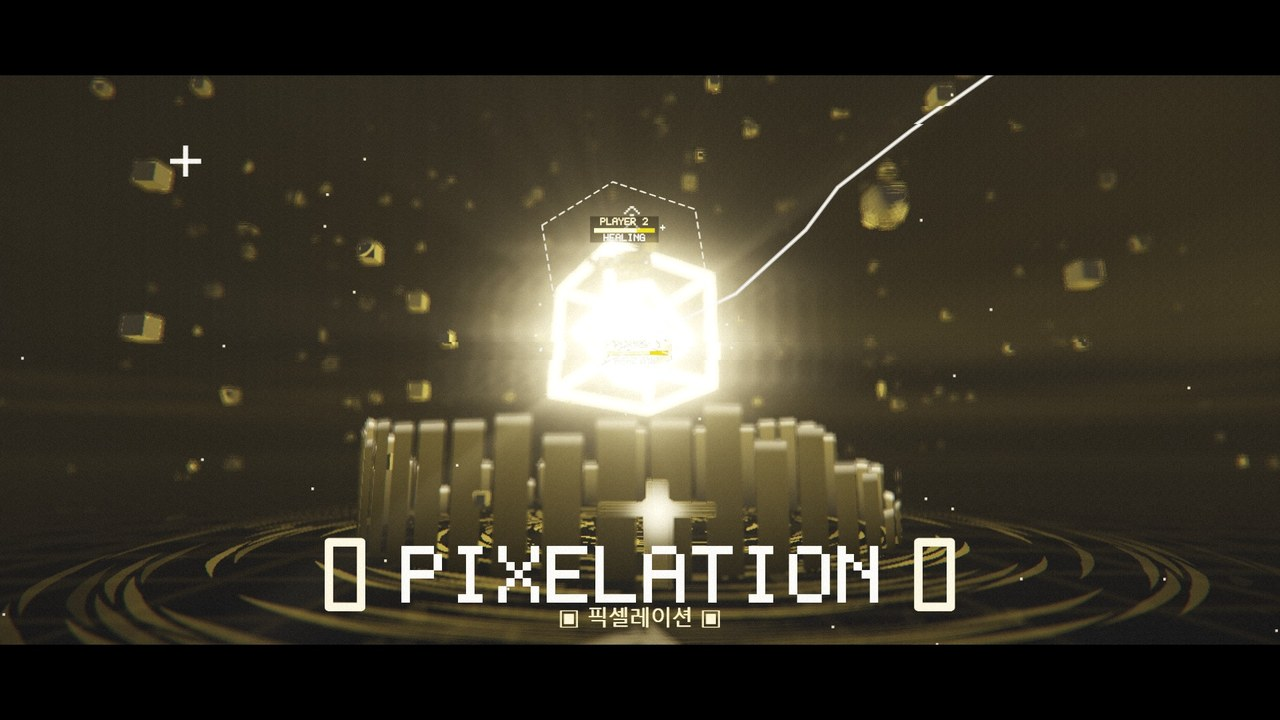
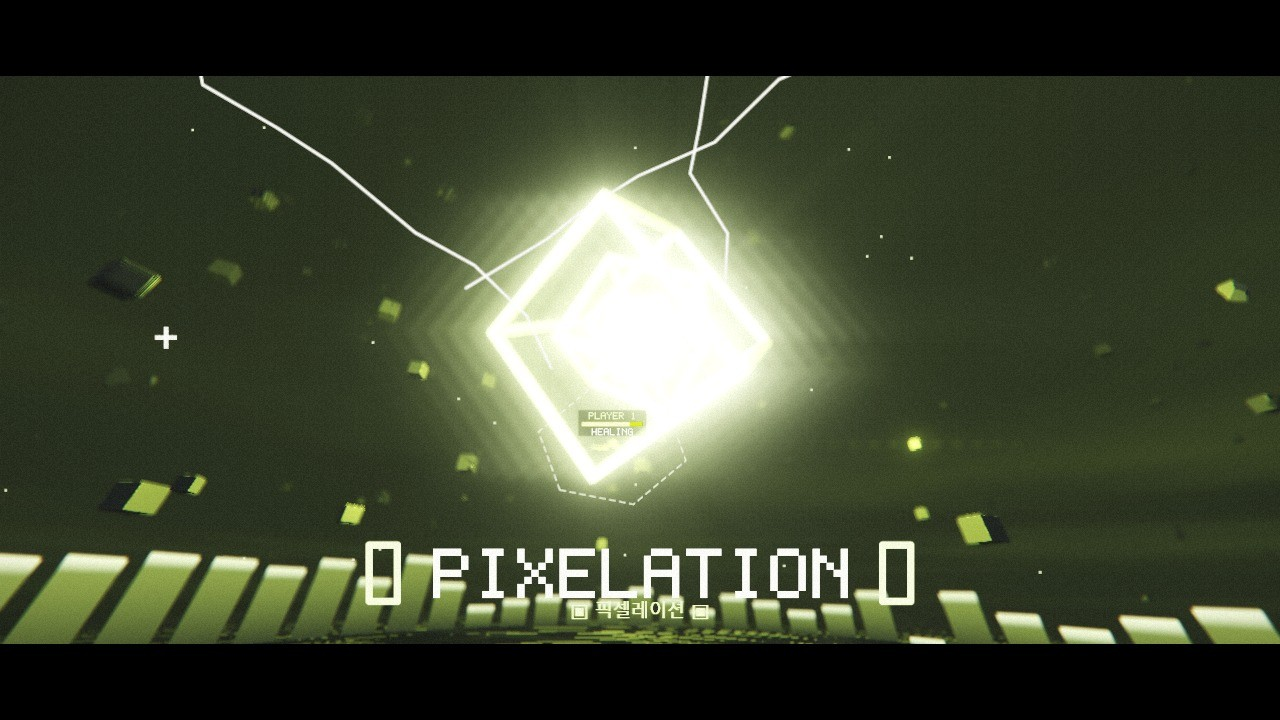
PIXELATION V2: 우주선 기수가 중심을 향함, 사람 조형 삭제, 과충전 폭발 엔딩, 극사실 재질, 4K
- 우주선: 기수가 E.G.O 를 향하게, 엔진 불빛 · 판금 이음새 · 스펙큘러 · 환경 반사
- 사람(플레이어) 조형 삭제 → 드롭 장면은 기둥 고리 안에서 올려다본 아우라
- 재질: 우리 = 거친 금속(결 · 스펙큘러 · 환경 반사), 큐브 = 발광 관, 바닥 = 물웅덩이 거울 반사 + 거친 표면 흐린 반사 + 잔물결
- 엔딩: 27.11 과충전(핵 백열 · 파편이 빨려듦 · 흔들림 · 번쩍임) → 28.34 마디 첫 박에 폭발(발광 조각 24개 · 바닥 충격파 · 평원을 밝히는 섬광) → 화면이 픽셀로 부서져 흩어짐.
  음원은 테이프 스톱 대신 그 박의 원곡 타격만 남기고 사라짐(합성 효과음 없음)
- 렌더 배율 1 · DPR 2, 공용 키트에 컷씬별 녹화 해상도(recW/recH) — 이 컷씬은 3840x2160 4K 저장(H.264 level 5.1, 45Mbps)

diff --git a/public/pixelation2_gl.html b/public/pixelation2_gl.html
@@ -27,9 +27,10 @@
      9.88   S4 비트: 두 우주선이 카메라 위를 스쳐 지나 우리로 (플라이바이) · E.G.O 가 박자마다 터지고 우주선은 -5
      14.8   S5 우주선 뒤 추적 숏 — 거대한 기둥 비주얼라이저가 평원에서 솟는다
      19.73  S6 봉인 균열: 우리가 조각조각 떨어져 나가고 번개가 내리꽂힌다, HP 폭락 → LOW HP → 방어막
-     24.65  S7 드롭: 전경의 작은 사람(팔을 벌리고 떠 있다, 가슴의 빛) 뒤로 완성된 아우라 — 카메라가 천천히 떠오른다 · 25.88 타이틀
-     28.34  테이프 스톱 → 29.5 끝
-   패스: ① 레이마칭(우리 · 큐브 · 핵 · 우주선 · 사람 · 파편, 깊이 → 알파) + 바닥(반사 레이마칭 1회 · 핵을 향한 그림자 광선 · 픽셀 소용돌이) + 구름 하늘 + 기둥 비주얼라이저 ② 2D 층(번개 · 폭발 · HUD · 타이틀) ③ 블룸 · 갓레이 ④ 최종(DoF · 플레어 · 레터박스)
+     24.65  S7 드롭: 평원에서 올려다본 완성된 아우라 — 우리가 사라지고 큐브가 극도로 빨리 돈다 · 25.88 타이틀
+     27.11  과충전: 핵이 백열하며 부풀고, 파편이 빨려들고, 화면이 떨린다
+     28.34  (마디 첫 박) 터짐: 발광 조각 · 바닥 충격파 · 평원 전체를 밝히는 섬광 → 화면이 픽셀로 부서져 흩어짐 → 29.5 끝
+   패스: ① 레이마칭(우리 · 큐브 · 핵 · 우주선 · 파편 · 과충전 조각, 깊이 → 알파) + 바닥(반사 레이마칭 1회 · 핵을 향한 그림자 광선 · 픽셀 소용돌이) + 구름 하늘 + 기둥 비주얼라이저 ② 2D 층(번개 · 폭발 · HUD · 타이틀) ③ 블룸 · 갓레이 ④ 최종(DoF · 플레어 · 레터박스)
    무지개: 모든 것이 같은 순간 같은 색(hueAt) — 빛으로. 전부 시간의 함수(상태 없음). 시계·HUD·시작/종료 화면은 cs_ui.js
    ═══════════════════════════════════════════════════════════════ */
 const TAU = Math.PI * 2, PI = Math.PI;
@@ -43,7 +44,7 @@ const h1 = (x) => { const v = Math.sin(x * 12.9898 + 78.233) * 43758.5453; retur
 function rng(seed) { return () => { seed |= 0; seed = seed + 0x6D2B79F5 | 0; let x = Math.imul(seed ^ seed >>> 15, 1 | seed); x = x + Math.imul(x ^ x >>> 7, 61 | x) ^ x; return ((x ^ x >>> 14) >>> 0) / 4294967296; }; }
 
 const BEAT = .30769, O = .034, BAR = BEAT * 4, bar = (n) => O + n * BAR;
-const T = { S2: bar(2), S3: bar(5), KICK: bar(8), S5: bar(12), BUILD: bar(16), LOWHP: bar(17), SHIELD: bar(18), DROP: bar(20), TITLE: bar(21), HEAL: bar(21) + BEAT * 2, FULL: bar(22) + BEAT * 2, STOP: bar(23), END: 29.5 };
+const T = { S2: bar(2), S3: bar(5), KICK: bar(8), S5: bar(12), BUILD: bar(16), LOWHP: bar(17), SHIELD: bar(18), DROP: bar(20), TITLE: bar(21), HEAL: bar(21), FULL: bar(22) - BEAT * .5, OVER: bar(22), STOP: bar(23), END: 29.5 };   // STOP = 터지는 순간
 const EXPL = [bar(10), bar(12), bar(14), bar(15) + BEAT * 2, bar(16) + BEAT * 2, bar(17), bar(17) + BEAT * 2, bar(18), bar(18) + BEAT * 2, bar(19), bar(19) + BEAT * 2, bar(20), bar(20) + BEAT * 2, bar(21) + BEAT * 2, bar(22), bar(22) + BEAT * 2];
 const D = window.PX2_DATA || { fps: 60, kick: [], hat: [], lvl: [], spec: "" };
 const dat = (arr, t) => { const i = Math.floor(t * D.fps); return i < 0 || !arr.length ? 0 : arr[Math.min(arr.length - 1, i)]; };
@@ -58,12 +59,12 @@ const C0 = [0, 9.5, 0];                                                         
 
 const $ = (id) => document.getElementById(id);
 const glc = $("glc"), bgm = $("bgm"), tcv = document.createElement("canvas"), tg = tcv.getContext("2d");
-let Wd = 0, Hd = 0, U = 0, DPR = 1, DPR_CAP = 1.5, SCALE = .7, slow = 0, time = 0, X = null, P = {}, RT = {}, txtTex = null;
+let Wd = 0, Hd = 0, U = 0, DPR = 1, DPR_CAP = 2, SCALE = 1, slow = 0, time = 0, X = null, P = {}, RT = {}, txtTex = null;
 
 /* ═════════════════ 셰이더 ═════════════════ */
 const FS_SCENE = `#version 300 es
 precision highp float; in vec2 vUv; out vec4 o;
-uniform vec2 uRes; uniform float uT, uFocal, uCore, uCage, uBreak, uShipK, uPlayer, uBars, uVortex, uDebris, uBob, uFlare, uGrey, uPulse, uSky; uniform vec3 uCamPos, uCol, uColW, uPlayerP; uniform mat3 uCam, uCubeR[3]; uniform vec4 uShip[2]; uniform float uSpec[24]; uniform int uZero;
+uniform vec2 uRes; uniform float uT, uFocal, uCore, uCage, uBreak, uShipK, uBars, uVortex, uDebris, uBob, uFlare, uGrey, uPulse, uSky, uOver, uBurst, uPull, uCubesK, uShock, uBoom; uniform vec3 uCamPos, uCol, uColW; uniform vec4 uFrag[24]; uniform mat3 uCam, uCubeR[3]; uniform vec4 uShip[2]; uniform float uSpec[24]; uniform int uZero;
 ${CSGL.NOISE}
 const vec3 C0 = vec3(0., 9.5, 0.);
 float sdBox(vec3 p, vec3 b){ vec3 d = abs(p) - b; return length(max(d, 0.)) + min(max(d.x, max(d.y, d.z)), 0.); }
@@ -77,13 +78,14 @@ vec2 map(vec3 p){
   if (dc >= 9.5) r = vec2(dc - 9.4, -1.); else {
     if (uCage > .001){ float f = sdFrame(c, vec3(5.2), .17); f = min(f, sdFrame(c, vec3(5.2, .12, 5.2), .1)); f = min(f, sdFrame(c, vec3(.12, 5.2, 5.2), .1));                                                   // 봉인 우리: 큰 틀 + 가운데를 가로지르는 띠
       if (uBreak > 0.){ vec3 id = floor(c * .7 + 7.); float h = hash(id.xy + id.z * 3.7); if (h < uBreak) f = 1e9; } r = opU(r, vec2(f, 1.)); }
-    for (int i = uZero; i < 3; i++){ float s = i == 0 ? 3.1 : i == 1 ? 1.9 : 1.05; vec3 q = c * uCubeR[i]; r = opU(r, vec2(sdFrame(q, vec3(s), .07 + .02 * float(2 - i)), 2.)); }                                           // 큐브 윤곽 3겹
-    r = opU(r, vec2(dc - .5 * (1. + .5 * uPulse) * uCore, 3.)); }
-  if (uShipK > .001) for (int i = uZero; i < 2; i++){ vec3 q = rotY3(uShip[i].w) * (p - uShip[i].xyz); r = opU(r, length(q) < 2. ? vec2(ship(q) * .9, 4.) : vec2(length(q) - 1.9, -1.)); }
-  if (uPlayer > .001){ vec3 q = p - uPlayerP; if (length(q) >= 1.7) r = opU(r, vec2(length(q) - 1.65, -1.)); else { float d = sdBox(q - vec3(0., .62, 0.), vec3(.13, .14, .13)) - .02; d = min(d, sdBox(q - vec3(0., .12, 0.), vec3(.2, .32, .11)) - .02);   // 사람: 팔을 벌리고 떠 있다
-      d = min(d, sdBox(q - vec3(0., .34, 0.), vec3(.92, .06, .06)) - .02); d = min(d, sdBox(q - vec3(-.1, -.52, 0.), vec3(.08, .3, .09)) - .02); d = min(d, sdBox(q - vec3(.1, -.52, 0.), vec3(.08, .3, .09)) - .02); r = opU(r, vec2(d, 5.)); } }
-  if (uDebris > .001){ float C = 5.5; vec3 id = floor(p / C), lp = p - (id + .5) * C; float h = hash(id.xy + id.z * 5.3); if (h > .7 && p.y > 1.5 && length(p.xz) > 7. && length(p - uCamPos) > 3.){ float sz = .08 + .3 * hash(id.xz + 1.); vec3 o2 = (vec3(hash(id.xy + 2.), hash(id.yz + 3.), hash(id.xz + 4.)) - .5) * 3.5;   // 떠다니는 복셀 파편
-      vec3 q = lp - o2 - vec3(0., sin(uT * .5 + h * 9.) * .3, 0.); r = opU(r, vec2(sdBox(q, vec3(sz)), 6.)); } }
+    if (uCubesK > .01) for (int i = uZero; i < 3; i++){ float s = (i == 0 ? 3.1 : i == 1 ? 1.9 : 1.05) * (1. - .12 * uOver); vec3 q = c * uCubeR[i]; r = opU(r, vec2(sdFrame(q, vec3(s), .07 + .02 * float(2 - i)), 2.)); }                                           // 큐브 윤곽 3겹
+    if (uCubesK > .01) r = opU(r, vec2(dc - .5 * (1. + .5 * uPulse + 2.4 * uOver * uOver) * uCore, 3.)); }
+  if (uShipK > .001) for (int i = uZero; i < 2; i++){ vec3 q = rotY3(uShip[i].w) * (p - uShip[i].xyz); r = opU(r, length(q) < 2. ? vec2(ship(q) * .9, 4.) : vec2(length(q) - 1.9, -1.)); if (length(q) < 2.) r = opU(r, vec2(sdBox(q - vec3(-1.08, 0., 0.), vec3(.05, .07, .17)), 7.)); }   // 엔진 불빛
+  if (uDebris > .001){ vec3 pd = C0 + (p - C0) * (1. + 2.5 * uPull); float C = 5.5, sc = 1. + 2.5 * uPull; vec3 id = floor(pd / C), lp = pd - (id + .5) * C; float h = hash(id.xy + id.z * 5.3);        // 떠다니는 복셀 파편 (과충전 때 핵으로 빨려들고, 터지면 밀려난다)
+    if (h > .7 && pd.y > 1.5 && length(pd.xz) > 7. && length(p - uCamPos) > 3.){ float sz = .08 + .3 * hash(id.xz + 1.); vec3 o2 = (vec3(hash(id.xy + 2.), hash(id.yz + 3.), hash(id.xz + 4.)) - .5) * 3.5;
+      vec3 q = lp - o2 - vec3(0., sin(uT * .5 + h * 9.) * .3, 0.); q = rotY3(h * 9. + uT * (.3 + h)) * q; r = opU(r, vec2(sdBox(q, vec3(sz)) / sc, 6.)); } }
+  if (uBurst > 0.) for (int i = uZero; i < 24; i++){ vec4 f = uFrag[i]; if (f.w <= 0.) continue; vec3 q = p - f.xyz; float dq = length(q); if (dq > 3.){ r = opU(r, vec2(dq - 2.5, -1.)); continue; }     // 과충전 조각
+    float hh = float(i) * 1.7; q = rotY3(hh + uBurst * (3. + float(i) * .3)) * q; q.yz = mat2(cos(hh * 2.), -sin(hh * 2.), sin(hh * 2.), cos(hh * 2.)) * q.yz; r = opU(r, vec2(sdBox(q, vec3(f.w)), 8.)); }
   return r;
 }
 vec3 normalAt(vec3 p){ vec3 n = vec3(0.); for (int i = uZero; i < 4; i++){ vec3 e = .5773 * (2. * vec3(float(((i + 3) >> 1) & 1), float((i >> 1) & 1), float(i & 1)) - 1.); n += e * map(p + .003 * e).x; } return normalize(n); }
@@ -91,25 +93,32 @@ float shadowTo(vec3 p, vec3 L){ vec3 d = L - p; float len = length(d); d /= len;
 vec3 sky(vec3 rd){ vec3 L = C0 + vec3(0., uBob, 0.); float y = max(rd.y, .02); vec2 q = rd.xz / y; float n = fbm(q * .06 + vec2(uT * .01, 0.)) * .6 + fbm(q * .18 - vec2(0., uT * .02)) * .4;                    // 폭풍 구름: 핵의 색으로 밑면이 물든다
   float cloud = smoothstep(.35, .75, n), lit = exp(-length(q) * .05) ; vec3 c = mix(vec3(.004, .005, .01), vec3(.012, .014, .022), cloud) + uCol * cloud * lit * (.4 + .6 * uFlare) * uCore + uColW * pow(max(dot(rd, normalize(L - uCamPos)), 0.), 60.) * .06 * uCore;
   return mix(c, vec3(.003, .004, .008), 1. - smoothstep(0., .12, rd.y)) * uSky + (1. - uSky) * vec3(.002, .003, .006); }
-vec3 lightAt(vec3 p){ vec3 L = C0 + vec3(0., uBob, 0.); float d = length(L - p); return uCol * uCore * (26. + 60. * uFlare) / (1. + d * d * .12); }
+vec3 lightAt(vec3 p){ vec3 L = C0 + vec3(0., uBob, 0.); float d = length(L - p); return (uCol * uCore * uCubesK * (26. + 60. * uFlare + 110. * uOver * uOver) + mix(vec3(1.), uColW, .4) * uBoom * 28.) / (1. + d * d * .12); }
 vec3 shade(vec3 p, vec3 n, vec3 rd, float id){
-  vec3 L = C0 + vec3(0., uBob, 0.), l = normalize(L - p); float ndl = max(dot(n, l), 0.), fres = pow(1. - max(dot(n, -rd), 0.), 3.), top = .5 + .5 * n.y; vec3 li = lightAt(p), amb = vec3(.02, .025, .04) * (.25 + .75 * top);
-  if (id < 1.5){ float sh = shadowTo(p + n * .05, L); return amb * .6 + li * ndl * .35 * sh + uCol * (.03 + .35 * fres) * .5; }                                            // 우리: 어두운 금속
-  if (id < 2.5) return uColW * (.9 + .8 * uPulse) + uCol * .5;                                                                                                           // 큐브 윤곽: 발광
-  if (id < 3.5) return uColW * (2.4 + 2. * uPulse);                                                                                                                      // 핵
-  if (id < 4.5){ vec3 c = vec3(.06, .065, .08) * (.25 + .75 * top) + li * ndl * .12 + uCol * (.05 + .5 * fres); float win = step(.85, hash(floor(p.xz * 6.) + floor(p.y * 6.))); return c + uColW * win * .25; }   // 우주선: 금속 동체, 작은 창의 불빛
-  if (id < 5.5){ vec3 q = p - uPlayerP - vec3(0., .34, 0.); float g = exp(-dot(q, q) * 9.); return amb * .5 + li * ndl * .08 + uCol * (.08 + .5 * fres) + uColW * g * 1.3; }   // 사람: 실루엣, 가슴에서 빛
-  return amb + li * ndl * .25 + uCol * (.03 + .5 * fres);                                                                                                                 // 파편
+  vec3 L = C0 + vec3(0., uBob, 0.), l = normalize(L - p), hv = normalize(l - rd); float ndl = max(dot(n, l), 0.), ndv = max(dot(n, -rd), 0.), fres = .04 + .96 * pow(1. - ndv, 5.), top = .5 + .5 * n.y; vec3 li = lightAt(p), amb = vec3(.012, .014, .022) * (.3 + .7 * top);
+  if (id < 1.5){ float sh = shadowTo(p + n * .05, L), rough = .3 + .35 * fbm(p.xy * 3. + p.z * 2.), spec = pow(max(dot(n, hv), 0.), mix(220., 24., rough)) * (1.2 - rough);                 // 우리: 거친 금속 — 결 · 스펙큘러 · 환경 반사
+    return amb * .5 + li * (ndl * .1 + spec * 1.4) * sh + sky(reflect(rd, n)) * fres * .9; }
+  if (id < 2.5) return mix(uCol * 1.1, uColW * 2., pow(ndv, 1.5)) * (.75 + .6 * uPulse + 2. * uOver);                                                                  // 큐브: 발광 관 — 가운데는 희고 가장자리는 색
+  if (id < 3.5) return mix(uColW, vec3(1.), uOver) * (2.6 + 2. * uPulse + 6. * uOver * uOver);                                                                         // 핵: 과충전 때 백열
+  if (id < 4.5){ float panel = step(.93, max(fract(p.x * 1.6 + p.z * .3), fract(p.y * 5.))), spec = pow(max(dot(n, hv), 0.), 110.);                                     // 우주선: 판금 · 이음새 · 스펙큘러 · 환경 반사
+    return vec3(.045, .05, .06) * (.3 + .7 * top) * (1. - .45 * panel) + li * (ndl * .12 + spec * 1.3) + sky(reflect(rd, n)) * fres * .7; }
+  if (id < 6.5) return amb + li * (ndl * .18 + pow(max(dot(n, hv), 0.), 70.) * .9) + sky(reflect(rd, n)) * fres * .4;                                                  // 파편
+  if (id < 7.5) return uColW * 4. + uCol * 2.;                                                                                                                          // 엔진
+  float k = clamp(uBurst * 1.3, 0., 1.); return mix(vec3(5.), uCol * 1.8 + uColW * .6, k) * (.5 + .5 * ndv) * (1. - .75 * k);                                           // 과충전 조각: 백열 → 색으로 식음
 }
 vec3 floorCol(vec3 p, vec3 rd, float t){
   vec2 q = p.xz; float r = length(q), aa = t * 2.4 / uRes.y / max(-rd.y, .06), fade = exp(-r * .025); vec3 L = C0 + vec3(0., uBob, 0.);
-  vec2 g = abs(fract(q * .25 - .5) - .5) / .25; float grid = smoothstep(aa * 1.4, 0., min(g.x, g.y)); vec3 col = vec3(.004, .005, .009) + uCol * grid * .02 * fade;
-  float an = atan(q.y, q.x), sw = an + r * .5 - uT * (1.2 + 3. * uVortex), cell = floor(r * 1.3 - uT * (2. + 5. * uVortex)), secn = floor(sw / 6.2832 * 24.), h = hash(vec2(cell, secn));            // 픽셀 소용돌이: 순수 픽셀 칸이 바깥으로 번진다
-  float on = step(1. - .38 * uVortex - .05, h) * step(.35, fract(sw / 6.2832 * 24.)) * step(.2, fract(r * 1.3 - uT * (2. + 5. * uVortex))); col += uCol * on * (.25 + .6 * hash(vec2(cell, secn + 5.))) * fade * smoothstep(26., 4., r) * uVortex * .8;
-  float sh = shadowTo(p + vec3(0., .05, 0.), L); vec3 li = lightAt(p); float ndl = max(dot(vec3(0., 1., 0.), normalize(L - p)), 0.); col += li * ndl * .18 * sh * (.4 + .6 * fbm(q * .3));                    // 핵의 빛 + 우리의 그림자
-  vec3 rr = reflect(rd, vec3(0., 1., 0.)); float tr = .1; vec2 m; float rid = -1.; for (int i = uZero; i < 40; i++){ m = map(p + rr * tr); if (m.x < .01 * tr){ rid = m.y; break; } tr += m.x * .95; if (tr > 40.) break; }                        // 젖은 바닥: 발광체의 반사
-  float fr = pow(1. - max(-rd.y, 0.), 3.) * .85 + .05; vec3 refl = vec3(0.); if (rid > 1.5 && rid < 3.5) refl = (rid < 2.5 ? uColW * .8 + uCol * .4 : uColW * 1.2) * exp(-tr * .03) * (.7 + .3 * fbm(q * .8 + uT * .1)); else if (rid > .5) refl = (rid < 1.5 ? uCol * .06 : uCol * .12) * exp(-tr * .05);
-  col += refl * fr * .9;
+  float pud = smoothstep(.44, .58, fbm(q * .11 + 3.)), grain = fbm(q * 2.3) * .6 + fbm(q * 9.) * .4;                                                                     // 물웅덩이 · 거친 표면
+  vec2 g = abs(fract(q * .25 - .5) - .5) / .25; float grid = smoothstep(aa * 1.4, 0., min(g.x, g.y)) * (1. - .8 * pud);
+  vec3 col = vec3(.006, .007, .01) * (.5 + .9 * grain) * (1. - .55 * pud) + uCol * grid * .02 * fade;
+  float an = atan(q.y, q.x), sw = an + r * .5 - uT * (1.2 + 3. * uVortex), cell = floor(r * 1.3 - uT * (2. + 5. * uVortex)), secn = floor(sw / 6.2832 * 24.), h = hash(vec2(cell, secn));            // 픽셀 소용돌이
+  float on = step(1. - .38 * uVortex - .05, h) * step(.35, fract(sw / 6.2832 * 24.)) * step(.2, fract(r * 1.3 - uT * (2. + 5. * uVortex))); col += uCol * on * (.25 + .6 * hash(vec2(cell, secn + 5.))) * fade * smoothstep(26., 4., r) * uVortex * .8 * (1. - .6 * pud);
+  float sh = shadowTo(p + vec3(0., .05, 0.), L); vec3 li = lightAt(p); float ndl = max(dot(vec3(0., 1., 0.), normalize(L - p)), 0.); col += li * ndl * (.08 + .14 * grain) * (1. - .5 * pud) * sh;   // 핵의 빛 + 우리의 그림자
+  vec2 wv = vec2(fbm(q * 1.7 + uT * .25), fbm(q * 1.7 - uT * .25 + 5.)) - .5; vec3 nrm = normalize(vec3(wv.x * mix(.14, .012, pud), 1., wv.y * mix(.14, .012, pud))), rr = reflect(rd, nrm);          // 젖은 바닥: 웅덩이는 거울, 나머지는 흐린 반사
+  float tr = .1, rid = -1.; for (int i = uZero; i < 44; i++){ vec2 m = map(p + rr * tr); if (m.x < .01 * tr){ rid = m.y; break; } tr += m.x * .95; if (tr > 50.) break; }
+  vec3 refl = rid < 0. ? sky(rr) * .8 : rid < 1.5 ? uCol * .05 : rid < 2.5 ? (uColW * .8 + uCol * .4) * (1. + 2. * uOver) : rid < 3.5 ? uColW * (2. + 8. * uOver) : rid < 4.5 ? uCol * .07 : rid < 6.5 ? uCol * .05 : rid < 7.5 ? uColW * 3. : vec3(5.) * (1. - clamp(uBurst, 0., 1.));
+  float fr = .03 + .97 * pow(1. - max(-rd.y, 0.), 5.); col += refl * exp(-tr * .02) * fr * mix(.3, 1., pud);
+  if (uShock > 0. && uShock < 1.){ float rr0 = uShock * 46., w = .8 + uShock * 4.; col += mix(vec3(1.), uColW, .5) * exp(-pow((r - rr0) / w, 2.)) * 4. * (1. - uShock) * (.6 + .4 * grain); }        // 바닥을 휩쓰는 충격파
   return col;
 }
 void main(){
@@ -123,13 +132,13 @@ void main(){
       float slot = atan(p.z, p.x) / 6.2832 * 48. + uT * .3, idx = floor(slot), fa = fract(slot) - .5, m = abs(mod(idx + 24., 48.) - 24.); int bi = int(min(m, 23.)); float hgt = (.3 + uSpec[bi] * 4.2 * (1. + .35 * uPulse)) * uBars, aa = tb * 2.4 / uRes.y;
       float cv = clamp((.36 - abs(fa)) * (6.2832 * R / 48.) / aa + .5, 0., 1.) * clamp((hgt - p.y) / aa + .5, 0., 1.), dk = i == 0 ? 1. : .4; vec3 bc = vec3(.012, .014, .02) + uCol * (.05 + .25 * p.y / hgt) + uColW * (smoothstep(hgt - .35, hgt, p.y) * .9 + .06 * smoothstep(.0, 1., p.y / hgt) * uPulse);
       col = mix(col, mix(bc, vec3(.004, .005, .01), 1. - exp(-tb * .018)) * dk, cv); if (cv > .5) depth = min(depth, tb); } } }
-  { vec3 L = C0 + vec3(0., uBob, 0.), v = L - ro; float tc = max(dot(v, rd), 0.), d = length(v - rd * tc); col += uCol * uCore * (1. + 3. * uFlare) * (.5 / (d * d + .6)) * step(tc, depth + 4.) * .35; }                            // 핵의 빛이 안개에 번진다
+  { vec3 L = C0 + vec3(0., uBob, 0.), v = L - ro; float tc = max(dot(v, rd), 0.), d = length(v - rd * tc); col += (uCol * uCore * uCubesK * (1. + 3. * uFlare + 9. * uOver * uOver) + mix(vec3(1.), uColW, .4) * uBoom * 1.2) * (.5 / (d * d + .6)) * step(tc, depth + 4.) * .35; }                            // 핵의 빛이 안개에 번진다
   col = mix(col, vec3(dot(col, vec3(.33))), uGrey);
   o = vec4(max(col, 0.), depth);
 }`;
 const FS_FINAL = `#version 300 es
 precision highp float; in vec2 vUv; out vec4 o;
-uniform sampler2D uScene, uBloom, uTxt, uRays; uniform vec2 uRes, uShake, uLightS; uniform float uT, uZoom, uCA, uBloomK, uFlash, uFade, uStretch, uInvert, uBlock, uGlitch, uFocus, uAper, uRayK; uniform vec3 uColW;
+uniform sampler2D uScene, uBloom, uTxt, uRays; uniform vec2 uRes, uShake, uLightS; uniform float uT, uZoom, uCA, uBloomK, uFlash, uFade, uStretch, uInvert, uBlock, uGlitch, uFocus, uAper, uRayK, uShatter; uniform vec3 uColW;
 ${CSGL.NOISE}
 vec3 scene(vec2 uv){ vec4 c0 = texture(uScene, uv); float coc = clamp(abs(c0.a - uFocus) / max(c0.a, .3) * uAper, 0., 1.) * .012; if (coc < .0006) return c0.rgb;                                   // 피사계 심도
   vec3 acc = c0.rgb; float n = 1.; for (int i = 0; i < 14; i++){ float fi = float(i) + .5, a = fi * 2.39996, r = sqrt(fi / 14.) * coc; vec2 d = vec2(cos(a), sin(a)) * r * vec2(uRes.y / uRes.x, 1.); vec4 sx = texture(uScene, uv + d); float w = 1. + 2. * max(max(sx.r, sx.g), sx.b); acc += sx.rgb * w; n += w; } return acc / n; }
@@ -138,6 +147,8 @@ void main(){
   if (uBlock > 1.5) uv = (floor(uv * uRes / uBlock) + .5) * uBlock / uRes;
   float tick = floor(uT * 24.), row = floor(uv.y * 40.), gr = hash(vec2(row, tick)); if (gr < uGlitch * .5) uv.x += (hash(vec2(row, tick + 3.)) - .5) * .14 * uGlitch;
   if (uStretch > 0.){ float rw = floor(uv.y * 90.), tk = floor(uT * 30.); uv.y = .5 + (uv.y - .5) * (1. - .6 * uStretch) + sin(uv.y * 40. + uT * 9.) * .02 * uStretch; uv.x += (hash(vec2(rw, tk)) - .5) * .12 * uStretch * step(.6, hash(vec2(rw, tk * .3))); }
+  float gone = 0., hot = 0.; if (uShatter > 0.){ vec2 A = vec2(uRes.x / uRes.y, 1.); float bs = mix(.01, .055, uShatter); vec2 cell = floor((uv - .5) * A / bs); float hh = hash(cell + 3.1); vec2 cc = (cell + .5) * bs / A + .5, d2 = cc - .5;   // 과충전된 픽셀이 터져 흩어진다
+    float k = uShatter * (1. + 2.5 * hh); uv = .5 + d2 / (1. + k * 1.8) + (uv - cc) * .1; gone = step(1. - uShatter * 1.1, hh * .85 + .15 * uShatter); hot = hh * (1. - uShatter); }
   if (uv.x < 0. || uv.x > 1. || uv.y < 0. || uv.y > 1.){ o = vec4(0., 0., 0., 1.); return; }
   vec2 dir = uv - .5; float ca = uCA * (.3 + length(dir) * 1.8);
   vec3 col = vec3(scene(uv + dir * ca).r, scene(uv).g, scene(uv - dir * ca).b); vec3 bl = texture(uBloom, uv).rgb, st = vec3(0.); for (int i = -7; i <= 7; i++){ float fi = float(i); st += texture(uBloom, uv + vec2(fi * .016, 0.)).rgb * exp(-fi * fi * .07); }
@@ -148,6 +159,7 @@ void main(){
   col = mix(col, vec3(1.) - min(col, vec3(1.)), uInvert); col += vec3(1.) * uFlash;
   col = (col * (2.51 * col + .03)) / (col * (2.43 * col + .59) + .14); col = pow(clamp(col, 0., 1.), vec3(1. / 2.2)); col = mix(col, vec3(dot(col, vec3(.3, .55, .15))), .12); col = col * 1.08 + .012;             // 필름 느낌: 살짝 탈색, 들린 검정
   col += (hash(gl_FragCoord.xy + fract(uT) * 91.7) - .5) * .045; float v = length((vUv - .5) * vec2(1., .8)); col *= 1. - smoothstep(.45, 1.1, v) * .6;
+  col = col * (1. + .9 * hot) * (1. - gone) * (1. - .45 * uShatter);
   col *= step(.105, vUv.y) * step(vUv.y, .895);                                                                                                                             // 시네마스코프 레터박스
   o = vec4(max(col, 0.) * (1. - uFade), 1.);
 }`;
@@ -159,9 +171,9 @@ function lazyProgram(vs, fs) {
 }
 function initGL() { if (X) return; const x = CSGL.create(glc); x.gl.getExtension("KHR_parallel_shader_compile"); X = x; P.scene = lazyProgram(CSGL.VS_FULL, FS_SCENE); P.final = lazyProgram(CSGL.VS_FULL, FS_FINAL); txtTex = X.canvasTexture(); }
 function resize() {
-  DPR = Math.min(DPR_CAP, window.devicePixelRatio || 1); Wd = glc.clientWidth || 1280; Hd = glc.clientHeight || 720; U = Math.min(Wd, Hd) / 10;
+  const recording = $("cs").classList.contains("rec"); DPR = recording ? 1 : Math.min(DPR_CAP, window.devicePixelRatio || 1); Wd = glc.clientWidth || 1280; Hd = glc.clientHeight || 720; U = Math.min(Wd, Hd) / 10;
   const pw = Math.max(2, Math.round(Wd * DPR)), ph = Math.max(2, Math.round(Hd * DPR)); glc.width = tcv.width = pw; glc.height = tcv.height = ph;
-  initGL(); const sw = Math.max(2, Math.round(pw * SCALE)), sh = Math.max(2, Math.round(ph * SCALE)); X.resize(sw, sh); X.free(RT.scene); RT.scene = X.target(sw, sh);
+  initGL(); const sc = recording ? .72 : SCALE,                                   /* 4K 녹화: 레이마칭은 0.72배(2765x1555)로, 블룸·DoF·글자·최종 합성은 3840x2160 그대로 */ sw = Math.max(2, Math.round(pw * sc)), sh = Math.max(2, Math.round(ph * sc)); X.resize(sw, sh); X.free(RT.scene); RT.scene = X.target(sw, sh);
 }
 setTimeout(() => { try { initGL(); } catch (e) { /* 재생할 때 다시 시도하며 안내 */ } }, 200);
 
@@ -173,7 +185,7 @@ function ptext(s, x, y, sc, color, align) { s = String(s).toUpperCase(); const w
   for (const ch of s) { const g = FONT[ch]; if (g) for (let r = 0; r < 7; r++) for (let c = 0; c < 5; c++) if (g[r] >> (4 - c) & 1) tg.fillRect(x + c * sc, y + r * sc, sc, sc); x += 6 * sc; } return w; }
 function proj(S, p) { const v = [p[0] - S.cam.pos[0], p[1] - S.cam.pos[1], p[2] - S.cam.pos[2]], z = dot(v, S.cam.f); if (z < .1) return null; return [Wd / 2 + dot(v, S.cam.r) / z * S.focal * Hd / 2, Hd / 2 - dot(v, S.cam.u) / z * S.focal * Hd / 2, z]; }
 function drawOverlay(t, S) {
-  tg.setTransform(1, 0, 0, 1, 0, 0); tg.clearRect(0, 0, tcv.width, tcv.height); tg.setTransform(DPR, 0, 0, DPR, 0, 0); const tt = Math.min(t, T.STOP), stopped = t >= T.STOP, hue = hueAt(t), L = (l, a = 1) => (stopped ? `hsla(0,0%,${l * .7}%,${a})` : hsl(hue, l, a)), kick = dat(D.kick, tt);
+  tg.setTransform(1, 0, 0, 1, 0, 0); tg.clearRect(0, 0, tcv.width, tcv.height); tg.setTransform(DPR, 0, 0, DPR, 0, 0); const tt = Math.min(t, T.STOP), stopped = t >= T.STOP, hue = hueAt(t), L = (l, a = 1) => hsl(hue, l, a), kick = dat(D.kick, tt);
   const line = (pts, w, col) => { tg.strokeStyle = col; tg.lineWidth = w * U; tg.beginPath(); pts.forEach(([x, y], i) => (i ? tg.lineTo(x, y) : tg.moveTo(x, y))); tg.stroke(); };
   const core = proj(S, [0, C0[1] + S.bob, 0]) || [Wd / 2, Hd / 2, 20], ck = clamp(14 / core[2]);
   tg.lineCap = "round"; tg.lineJoin = "round"; tg.globalCompositeOperation = "lighter";
@@ -200,7 +212,7 @@ function drawOverlay(t, S) {
   if (t >= T.TITLE) { const s = t - T.TITLE, pop = eBack(seg(s, 0, .22)), sc = Math.max(1, Math.round((U * .09) * pop + U * .025 * kick)), y = Hd * .795; tg.globalCompositeOperation = "lighter";                                                                                        // 타이틀: 박마다 맥동
     ptext("PIXELATION", Wd / 2, y - 3.5 * sc, sc, stopped ? L(80) : L(94), "c"); const w = 10 * 6 * sc - sc; for (const sg of [-1, 1]) { tg.strokeStyle = L(75); tg.lineWidth = sc; tg.strokeRect(Wd / 2 + sg * (w / 2 + 5 * sc) - (sg < 0 ? 4 * sc : 0), y - 4 * sc, 4 * sc, 8 * sc); }
     tg.font = `${Math.round(sc * 2.6)}px Galmuri11, DungGeunMo, "Malgun Gothic", sans-serif`; tg.textAlign = "center"; tg.textBaseline = "top"; tg.fillStyle = L(70); tg.fillText("▣ 픽셀레이션 ▣", Wd / 2, y + 4.2 * sc); }
-  if (stopped) { const k = seg(t, T.STOP, T.STOP + .4); tg.globalCompositeOperation = "source-over"; for (let i = 0; i < 40 * k; i++) { const y = Math.floor(h1(i + Math.floor(t * 20)) * Hd); tg.fillStyle = `hsla(0,0%,${30 + 40 * h1(i * 7)}%,1)`; tg.fillRect(0, y, Wd, 1 + Math.floor(h1(i * 3) * 3)); } }
+
   tg.globalCompositeOperation = "source-over";
 }
 
@@ -209,7 +221,7 @@ const sub = (a, b) => [a[0] - b[0], a[1] - b[1], a[2] - b[2]], add = (a, b) => [
 const cross = (a, b) => [a[1] * b[2] - a[2] * b[1], a[2] * b[0] - a[0] * b[2], a[0] * b[1] - a[1] * b[0]], norm = (a) => { const l = Math.hypot(a[0], a[1], a[2]) || 1; return [a[0] / l, a[1] / l, a[2] / l]; }, mix3 = (a, b, k) => [lerp(a[0], b[0], k), lerp(a[1], b[1], k), lerp(a[2], b[2], k)];
 function camera(pos, tgt, roll) { const f = norm(sub(tgt, pos)), r0 = norm(cross(f, [0, 1, 0])), u0 = cross(r0, f), c = Math.cos(roll), s = Math.sin(roll); return { pos, r: [r0[0] * c + u0[0] * s, r0[1] * c + u0[1] * s, r0[2] * c + u0[2] * s], u: [u0[0] * c - r0[0] * s, u0[1] * c - r0[1] * s, u0[2] * c - r0[2] * s], f }; }
 function rotM(rx, ry, rz) { const cx = Math.cos(rx), sx = Math.sin(rx), cy = Math.cos(ry), sy = Math.sin(ry), cz = Math.cos(rz), sz = Math.sin(rz); return [cz * cy, sz * cy, -sy, cz * sy * sx - sz * cx, sz * sy * sx + cz * cx, cy * sx, cz * sy * cx + sz * sx, sz * sy * cx - cz * sx, cy * cx]; }
-const shipAt = (tt, i, R) => { const a = tt * 1.1 + i * PI + .3; return [Math.cos(a) * R, C0[1] + .6 * Math.sin(tt * .9 + i * 2), Math.sin(a) * R, -a - PI / 2]; };
+const shipAt = (tt, i, R) => { const a = tt * 1.1 + i * PI + .3; return [Math.cos(a) * R, C0[1] + .6 * Math.sin(tt * .9 + i * 2), Math.sin(a) * R, a + PI]; };   // 기수가 중심(E.G.O)을 향한다
 function state(t) {
   const tt = Math.min(t, T.STOP), S = { focal: 1.5, core: .6, cage: 1, brk: 0, shipK: 0, player: 0, bars: 0, vortex: .1, debris: 1, arrow: 0, ships: null, sky: 1, focus: 30, aper: .6, playerP: [0, 0, 0] };
   const kick = dat(D.kick, tt), beat = t >= T.KICK, built = t >= T.BUILD, dropped = t >= T.DROP; S.bob = Math.sin(tt * 1.2) * .45; S.pulse = beat ? kick : 0;
@@ -223,40 +235,45 @@ function state(t) {
   else if (t < T.S5) { const k = seg(t, T.KICK, T.S5), sp = shipAt(tt, 0, 11); cam = camera(add([lerp(4, 2, k), 1.6, lerp(20, 16, k)], hand), [sp[0] * .4, 7.5, sp[2] * .4], .02); S.focal = 1.3; S.core = .85; S.vortex = .75; S.bars = eOut(seg(t, T.KICK + .3, T.KICK + 1.2)) * .6; S.focus = 16; S.aper = .45; }   // S4 플라이바이
   else if (t < T.BUILD) { const k = seg(t, T.S5, T.BUILD), sp = shipAt(tt, 1, 11), a = tt * 1.1 + PI + .3; cam = camera(add(add(sp, [Math.cos(a + .4) * 6.5, 1.6, Math.sin(a + .4) * 6.5]), hand), [0, C0[1] - .5, 0], .03 * Math.sin(tt)); S.focal = 1.35; S.core = 1; S.vortex = .85; S.bars = 1; S.focus = 12; S.aper = .5; }   // S5 우주선 뒤 추적
   else if (t < T.DROP) { const k = seg(t, T.BUILD, T.DROP), a = 2.2 + k * .5; cam = camera(add([Math.sin(a) * (22 - k * 6), 1.5 + k * 3, Math.cos(a) * (22 - k * 6)], hand), [0, 8.5, 0], .05 * Math.sin(tt * 7) * k); S.focal = 1.45; S.core = 1.1 + .3 * k; S.brk = eIn(k) * .95; S.vortex = 1; S.bars = 1; S.focus = 20; S.aper = .4; }   // S6 봉인 균열
-  else { const s = t - T.DROP, k = eOut(seg(s, 0, 2.2)); S.playerP = [0, 2.4 + .1 * Math.sin(tt * 1.3), 20]; cam = camera(add([lerp(-1.6, -.6, k), lerp(1.4, 3.6, k), lerp(26.5, 29.5, k)], hand), [0, lerp(3.6, 6.5, k), 12], 0); S.focal = 1.55; S.core = 1.5; S.cage = 0; S.player = 1; S.arrow = 1; S.vortex = 1; S.bars = 1; S.debris = .6; S.focus = lerp(8, 26, eInOut(seg(s, 1.0, 2.6))); S.aper = .7; }   // S7 전경의 사람, 뒤의 아우라
+  else { const s = t - T.DROP, k = eOut(seg(s, 0, 2.2)), ov = eIn(seg(t, T.OVER, T.STOP)), a = .35 + s * .07, R = lerp(11.8, 11, k) - 1.2 * ov, jit = .28 * ov + .6 * pulse(t, T.STOP, .01, .5), nj = Math.floor(t * 40);   // S7 평원에서 올려다본 아우라
+    cam = camera(add([Math.sin(a) * R, lerp(.8, 1.6, k), Math.cos(a) * R], add(hand, [(h1(nj) - .5) * jit, (h1(nj + 3) - .5) * jit, 0])), [0, lerp(7.4, 8.6, k), 0], .02 * Math.sin(tt * .8)); S.focal = 1.0; S.core = 1.5; S.cage = 0; S.arrow = t < T.STOP ? 1 : 0; S.vortex = 1; S.bars = (t < T.STOP ? 1 : 1 - seg(t, T.STOP, T.STOP + .7)) * .6; S.debris = .8; S.focus = R; S.aper = .45; S.rays = .18; }
   S.cam = cam;
-  if (beat) { const k = eOut(seg(t, T.KICK, T.KICK + .8)); S.shipK = 1; S.ships = [0, 1].map((i) => shipAt(tt, i, 11 * k + 30 * (1 - k))); }
-  S.flare = EXPL.reduce((m, e) => Math.max(m, pulse(tt, e, .02, .35)), 0);
+  if (beat) { const k = eOut(seg(t, T.KICK, T.KICK + .8)), fly = t >= T.STOP ? eOut(seg(t, T.STOP, T.STOP + 1.2)) : 0; S.shipK = 1; S.ships = [0, 1].map((i) => shipAt(tt + (t - tt) * .3, i, 11 * k + 30 * (1 - k) + 70 * fly)); }   // 터지면 우주선이 밀려난다
+  S.over = t < T.STOP ? eIn(seg(t, T.OVER, T.STOP)) : 0; S.burst = t >= T.STOP ? t - T.STOP : 0; S.cubesK = t >= T.STOP ? 0 : 1; S.pull = t < T.STOP ? .55 * S.over : -.28 * eOut(seg(t, T.STOP, T.STOP + 1)); S.shock = t >= T.STOP ? seg(t, T.STOP, T.STOP + 1.1) : 0; S.boom = t >= T.STOP ? Math.exp(-(t - T.STOP) * 6) : 0;
+  S.frag = new Float32Array(96); if (S.burst > 0) { const r = rng(4242), b = S.burst; for (let i = 0; i < 24; i++) { const u = r() * 2 - 1, ph = r() * TAU, sq = Math.sqrt(1 - u * u), dir = [sq * Math.cos(ph), u * .8 + .25, sq * Math.sin(ph)], sp = 12 + 24 * r(), sz = (.22 + .5 * r()) * (1 - .55 * clamp(b / 1.2));   // 과충전 조각: 사방으로 튀고 떨어진다
+    S.frag.set([C0[0] + dir[0] * sp * b * (1 - .22 * b), Math.max(sz, C0[1] + dir[1] * sp * b * (1 - .22 * b) - 5 * b * b), C0[2] + dir[2] * sp * b * (1 - .22 * b), b < 1.3 ? sz : 0], i * 4); } }
+  S.flare = Math.max(EXPL.reduce((m, e) => Math.max(m, pulse(tt, e, .02, .35)), 0), S.over * (.5 + .5 * Math.sin(t * 70)));
   const v = sub([0, C0[1] + S.bob, 0], cam.pos), z = dot(v, cam.f); S.lightS = z > .1 ? [dot(v, cam.r) / z * S.focal, dot(v, cam.u) / z * S.focal] : [9, 9];
   return S;
 }
 function render(t) {
-  const S = state(t), gl = X.gl, pw = glc.width, ph = glc.height, sw = RT.scene.w, sh = RT.scene.h, tt = Math.min(t, T.STOP), kick = dat(D.kick, tt), stopped = t >= T.STOP, dropped = t >= T.DROP, build = seg(t, T.BUILD, T.DROP), hue = hueAt(t), col = stopped ? [.45, .45, .45] : hsv(hue, .9, 1), colW = stopped ? [.8, .8, .8] : hsv(hue, .4, 1);
+  const S = state(t), gl = X.gl, pw = glc.width, ph = glc.height, sw = RT.scene.w, sh = RT.scene.h, tt = Math.min(t, T.STOP), kick = dat(D.kick, tt), stopped = t >= T.STOP, dropped = t >= T.DROP, build = seg(t, T.BUILD, T.DROP), hue = hueAt(t), col = hsv(hue, .9, 1), colW = hsv(hue, .4, 1);
   drawOverlay(t, S); X.upload(txtTex, tcv, true); gl.disable(gl.DEPTH_TEST); gl.disable(gl.BLEND);
   const ships = new Float32Array(8); if (S.ships) S.ships.forEach((s, i) => ships.set(s, i * 4));
   X.pass(P.scene(), RT.scene, (u) => { gl.uniform2f(u.uRes, sw, sh); gl.uniform1f(u.uT, tt); gl.uniform1i(u.uZero, 0); gl.uniform3f(u.uCamPos, S.cam.pos[0], S.cam.pos[1], S.cam.pos[2]); gl.uniformMatrix3fv(u.uCam, false, new Float32Array([...S.cam.r, ...S.cam.u, ...S.cam.f])); gl.uniform1f(u.uFocal, S.focal);
-    gl.uniform3f(u.uCol, col[0], col[1], col[2]); gl.uniform3f(u.uColW, colW[0], colW[1], colW[2]); gl.uniform3f(u.uPlayerP, S.playerP[0], S.playerP[1], S.playerP[2]); gl.uniformMatrix3fv(u.uCubeR, false, S.cubeR); gl.uniform4fv(u.uShip, ships); gl.uniform1fv(u.uSpec, spectrum(tt));
-    for (const [n, v] of [["uCore", S.core], ["uCage", S.cage], ["uBreak", S.brk], ["uShipK", S.shipK], ["uPlayer", S.player], ["uBars", S.bars], ["uVortex", S.vortex], ["uDebris", S.debris], ["uBob", S.bob], ["uFlare", S.flare], ["uGrey", stopped ? seg(t, T.STOP, T.STOP + .3) : 0], ["uPulse", S.pulse], ["uSky", S.sky]]) gl.uniform1f(u[n], v); });
+    gl.uniform3f(u.uCol, col[0], col[1], col[2]); gl.uniform3f(u.uColW, colW[0], colW[1], colW[2]); gl.uniformMatrix3fv(u.uCubeR, false, S.cubeR); gl.uniform4fv(u.uShip, ships); gl.uniform1fv(u.uSpec, spectrum(tt)); gl.uniform4fv(u.uFrag, S.frag);
+    for (const [n, v] of [["uCore", S.core], ["uCage", S.cage], ["uBreak", S.brk], ["uShipK", S.shipK], ["uBars", S.bars], ["uVortex", S.vortex], ["uDebris", S.debris], ["uBob", S.bob], ["uFlare", S.flare], ["uGrey", 0], ["uPulse", S.pulse], ["uSky", S.sky],
+      ["uOver", S.over], ["uBurst", S.burst], ["uPull", S.pull], ["uCubesK", S.cubesK], ["uShock", S.shock], ["uBoom", S.boom]]) gl.uniform1f(u[n], v); });
   const bloomTex = X.bloom(RT.scene.tex, .8), raysTex = X.rays(clamp(S.lightS[0] * .5 / (pw / ph) + .5), clamp(S.lightS[1] * .5 + .5), .9), r0 = rng(Math.floor(t * 60)), explP = S.flare;
-  const hit = (t >= T.KICK ? .08 * kick : 0) + .8 * pulse(t, T.DROP, .02, .6) + .4 * pulse(t, T.KICK, .02, .4) + .35 * explP + .5 * pulse(t, T.STOP, .02, .4), flash = Math.max(.8 * pulse(t, T.DROP, .02, .45), .25 * pulse(t, T.KICK, .02, .3), .2 * explP * (dropped ? 1 : .5), .25 * pulse(t, T.TITLE, .02, .3));
-  const glitch = stopped ? .6 : Math.max(.01 + (t < T.DROP ? .35 * build * build : .03 + .02 * kick), .7 * pulse(t, T.DROP, .01, .45), .3 * pulse(t, T.KICK, .01, .3), .35 * explP * (t >= T.BUILD ? 1 : .2)), stepB = [1, 1, 3, 6, 10][Math.min(4, Math.floor(build * 5))];
-  const block = (t >= T.DROP - BEAT && t < T.DROP ? 22 : t >= T.BUILD && t < T.DROP ? stepB : stopped ? 6 + 14 * seg(t, T.STOP, T.STOP + .5) : explP > .6 && dropped ? 4 : 1) * ph / 720;
+  const hit = (t >= T.KICK ? .08 * kick : 0) + .8 * pulse(t, T.DROP, .02, .6) + .4 * pulse(t, T.KICK, .02, .4) + .35 * explP + .45 * S.over + 1.1 * pulse(t, T.STOP, .01, .7), flash = Math.max(.8 * pulse(t, T.DROP, .02, .45), .25 * pulse(t, T.KICK, .02, .3), .2 * explP * (dropped ? 1 : .5), .25 * pulse(t, T.TITLE, .02, .3), .35 * S.over, 1.1 * pulse(t, T.STOP, .01, .16));
+  const glitch = stopped ? .15 * (1 - seg(t, T.STOP, T.STOP + .6)) : Math.max(.01 + (t < T.DROP ? .35 * build * build : .03 + .02 * kick), .7 * pulse(t, T.DROP, .01, .45), .3 * pulse(t, T.KICK, .01, .3), .35 * explP * (t >= T.BUILD ? 1 : .2), .55 * S.over), stepB = [1, 1, 3, 6, 10][Math.min(4, Math.floor(build * 5))];
+  const block = (t >= T.DROP - BEAT && t < T.DROP ? 22 : t >= T.BUILD && t < T.DROP ? stepB : stopped ? 1 : S.over > .05 ? 1 + Math.floor(S.over * 4) : explP > .6 && dropped ? 4 : 1) * ph / 720;
   X.pass(P.final(), null, (u) => { X.bindTex(0, RT.scene.tex, u.uScene); X.bindTex(1, bloomTex, u.uBloom); X.bindTex(2, txtTex, u.uTxt); X.bindTex(3, raysTex, u.uRays); gl.uniform2f(u.uRes, pw, ph); gl.uniform1f(u.uT, t); gl.uniform2f(u.uLightS, S.lightS[0], S.lightS[1]); gl.uniform3f(u.uColW, colW[0], colW[1], colW[2]);
-    gl.uniform2f(u.uShake, (r0() - .5) * hit * .014, (r0() - .5) * hit * .014); gl.uniform1f(u.uZoom, 1 + .025 * hit + (dropped ? .01 * kick : 0)); gl.uniform1f(u.uCA, .001 + .008 * hit); gl.uniform1f(u.uBloomK, .5 + .25 * (dropped ? kick : 0)); gl.uniform1f(u.uRayK, .35 + .4 * S.flare); gl.uniform1f(u.uFocus, S.focus); gl.uniform1f(u.uAper, S.aper);
-    gl.uniform1f(u.uFlash, flash * flash); gl.uniform1f(u.uFade, Math.max(1 - seg(t, .05, 1.2), seg(t, T.END - .35, T.END - .1))); gl.uniform1f(u.uStretch, stopped ? seg(t, T.STOP, T.STOP + .55) : 0); gl.uniform1f(u.uInvert, dropped && t < T.DROP + .06 ? 1 : 0); gl.uniform1f(u.uBlock, block); gl.uniform1f(u.uGlitch, glitch); });
+    gl.uniform2f(u.uShake, (r0() - .5) * hit * .014, (r0() - .5) * hit * .014); gl.uniform1f(u.uZoom, 1 + .025 * hit + (dropped ? .01 * kick : 0)); gl.uniform1f(u.uCA, .001 + .008 * hit); gl.uniform1f(u.uBloomK, (.5 + .25 * (dropped && !stopped ? kick : 0)) * (stopped ? .6 : 1)); gl.uniform1f(u.uRayK, (S.rays || .35) + .3 * S.flare * (t < T.STOP ? 1 : 0)); gl.uniform1f(u.uFocus, S.focus); gl.uniform1f(u.uAper, S.aper);
+    gl.uniform1f(u.uFlash, flash * flash); gl.uniform1f(u.uFade, Math.max(1 - seg(t, .05, 1.2), seg(t, T.END - .35, T.END - .1))); gl.uniform1f(u.uStretch, 0); gl.uniform1f(u.uShatter, stopped ? eIn(seg(t, T.STOP + .18, T.END - .2)) : 0); gl.uniform1f(u.uInvert, dropped && t < T.DROP + .06 ? 1 : 0); gl.uniform1f(u.uBlock, block); gl.uniform1f(u.uGlitch, glitch); });
 }
 
 /* ═════════════════ 재생: 시계·HUD·시작/종료 화면은 공용 키트(cs_ui.js) ═════════════════ */
 const player = CSUI.create({
-  stage: $("cs"), audio: bgm, volume: .9, duration: T.END, theme: "pixel", capBlend: false,
+  stage: $("cs"), audio: bgm, volume: .9, duration: T.END, theme: "pixel", capBlend: false, recW: 3840, recH: 2160,
   no: "03", title: "PIXELATION", sub: "픽셀레이션 · V2", hero: "/thumbs/pixelation2_hero.jpg",
   tagline: "디지털 월드에 봉인된 수수께끼의 E.G.O — 왜 존재하냐고? 아무도 모른다. 근데 누가 신경 써?!\n완전히 무해합니다. 이 설명은 거짓 0%, 진실 1,000,000%.",
-  meta: [["0:30", "Length"], ["195 BPM", "Tempo"], ["WebGL2 · 3D", "Renderer"]],
-  chapters: [{ t: 0, name: "sealed" }, { t: T.S2, name: "E.G.O" }, { t: T.KICK, name: "player 1 · 2" }, { t: T.BUILD, name: "low hp" }, { t: T.DROP, name: "aura" }, { t: T.STOP, name: "stop" }],
+  meta: [["0:30", "Length"], ["195 BPM", "Tempo"], ["4K · 3D", "Renderer"]],
+  chapters: [{ t: 0, name: "sealed" }, { t: T.S2, name: "E.G.O" }, { t: T.KICK, name: "player 1 · 2" }, { t: T.BUILD, name: "low hp" }, { t: T.DROP, name: "aura" }, { t: T.OVER, name: "overcharge" }],
   captions: [],
   prepare() { resize(); P.scene(); P.final(); },
   simulate(tt) { time = tt; },
-  frame(t, dt, raw) { time = t; slow = raw > .034 ? slow + 1 : Math.max(0, slow - 1); if (slow > 40) { slow = 0; if (DPR_CAP > 1) { DPR_CAP = 1; resize(); } else if (SCALE > .45) { SCALE = .45; resize(); } } render(t); },
+  frame(t, dt, raw) { time = t; slow = raw > .034 ? slow + 1 : Math.max(0, slow - 1); if (slow > 40 && !$("cs").classList.contains("rec")) { slow = 0; if (DPR_CAP > 1) { DPR_CAP = 1; resize(); } else if (SCALE > .45) { SCALE = .45; resize(); } } render(t); },
 });
 window.addEventListener("resize", () => { if (!$("cs").hidden && X) { resize(); render(time); } });
 window.playPixelation2Cutscene = (o) => player.play(o);

diff --git a/public/cs_ui.js b/public/cs_ui.js
@@ -3,6 +3,7 @@
 
    const player = CSUI.create({
      stage, audio, volume, duration,                    // 무대 요소(#cs), <audio>(없어도 됨), 음량, 전체 길이(초)
+     recW / recH: 영상 저장 해상도(기본 1920x1080, 예: 3840x2160 = 4K)
      theme: "ink" | "lumen", no, title, sub, tagline, meta: [[값, 이름]…], hero, variants: [{ label, href, on }],
      chapters: [{ t, name }], captions: [{ a, b, s }], capBlend: true(바탕 반대색) | false(그림자),
      prepare(),            // 재생 직전: 캔버스 크기·리소스 준비 (실패하면 throw)
@@ -146,7 +147,7 @@ function create(cfg) {
   }
 
   /* ── 영상 저장: 녹화 캔버스(1920x1080)에 화면·레터박스·자막·워터마크를 합쳐 실시간 녹화 ── */
-  const RW = 1920, RH = 1080, SERIF = '"Noto Serif KR","Nanum Myeongjo","Batang","바탕",serif', SANS = '"Pretendard","Noto Sans KR","Malgun Gothic",system-ui,sans-serif';
+  const RW = cfg.recW || 1920, RH = cfg.recH || 1080, SERIF = '"Noto Serif KR","Nanum Myeongjo","Batang","바탕",serif', SANS = '"Pretendard","Noto Sans KR","Malgun Gothic",system-ui,sans-serif';
   function paintRec(t) {
     const g = rec.rg, cvs = stage.querySelector("canvas"); g.globalCompositeOperation = "source-over"; g.globalAlpha = 1; g.filter = "none"; g.shadowBlur = 0;
     g.fillStyle = "#000"; g.fillRect(0, 0, RW, RH); if (cvs && cvs.width) g.drawImage(cvs, 0, 0, RW, RH);
@@ -165,11 +166,11 @@ function create(cfg) {
   function record() {
     if (rec) return;
     if (!window.MediaRecorder || !HTMLCanvasElement.prototype.captureStream) { errEl.hidden = false; errEl.textContent = "이 브라우저는 영상 저장을 지원하지 않습니다 (크롬·엣지 권장)."; return; }
-    const mime = ["video/mp4;codecs=avc1.640028,mp4a.40.2", "video/mp4", "video/webm;codecs=vp9,opus", "video/webm;codecs=vp8,opus", "video/webm"].find((m) => MediaRecorder.isTypeSupported(m));
+    const mime = [...(RH > 1080 ? ["video/mp4;codecs=avc1.640033,mp4a.40.2"] : []), "video/mp4;codecs=avc1.640028,mp4a.40.2", "video/mp4", "video/webm;codecs=vp9,opus", "video/webm;codecs=vp8,opus", "video/webm"].find((m) => MediaRecorder.isTypeSupported(m));
     const rc = document.createElement("canvas"); rc.width = RW; rc.height = RH; const stream = rc.captureStream(60), chunks = [];
     if (audio) { try { if (!actx) { actx = new (window.AudioContext || window.webkitAudioContext)(); asrc = actx.createMediaElementSource(audio); asrc.connect(actx.destination); }
       const dest = actx.createMediaStreamDestination(); asrc.connect(dest); actx.resume(); dest.stream.getAudioTracks().forEach((tr) => stream.addTrack(tr)); rec = { dest }; } catch (e) { console.warn("오디오 없이 녹화", e); } }
-    const mr = new MediaRecorder(stream, { mimeType: mime, videoBitsPerSecond: 12e6, audioBitsPerSecond: 192e3 });
+    const mr = new MediaRecorder(stream, { mimeType: mime, videoBitsPerSecond: RH > 1080 ? 45e6 : 12e6, audioBitsPerSecond: 192e3 });
     rec = Object.assign(rec || {}, { rc, rg: rc.getContext("2d"), mr, chunks, mime, cancelled: false });
     mr.ondataavailable = (e) => { if (e.data && e.data.size) chunks.push(e.data); };
     mr.onstop = () => { const r0 = rec; rec = null; if (r0.dest && asrc) { try { asrc.disconnect(r0.dest); } catch (e) { /* 무시 */ } }

diff --git a/public/cutscenes.html b/public/cutscenes.html
@@ -79,7 +79,7 @@ const CUTSCENES = [
     desc: "디지털 월드에 봉인된 “완전히 무해한” 자아. 팝업 광고가 무해하다고 우기는 동안 HP는 닳고, 사슬은 끊기고, 화면은 말 그대로 픽셀화된다. 195 BPM 에 맞춘 우스꽝스러운 광고 컨셉.",
     tags: ["WebGL2", "픽셀 아트", "음악 동기"], needsAudio: true },
   { id: "pixelation2", title: "PIXELATION V2", ko: "픽셀레이션 · E.G.O", page: "/pixelation2_gl.html", kit: true, thumb: "/thumbs/pixelation2.jpg", dur: "0:30",
-    desc: "디지털 월드에 봉인된 수수께끼의 E.G.O. 조사하러 온 두 우주선(HP 777)은 E.G.O 가 터질 때마다 -5, 봉인 우리가 조각조각 떨어져 나가며 LOW HP → FORCEFIELD → 드롭에서 아우라가 완성된다. 영화의 한 장면처럼 — 폭풍 구름 아래 검은 평원, 하늘에 걸린 거대한 우리, 젖은 바닥의 반사와 그림자, 시네마스코프. 대사 없음.",
+    desc: "디지털 월드에 봉인된 수수께끼의 E.G.O. 조사하러 온 두 우주선(HP 777)은 E.G.O 가 터질 때마다 -5, 봉인 우리가 조각조각 떨어져 나가며 LOW HP → FORCEFIELD → 드롭에서 아우라가 완성된다. 영화의 한 장면처럼 — 폭풍 구름 아래 검은 평원, 하늘에 걸린 거대한 우리, 젖은 바닥의 반사와 그림자. 끝내 힘이 과충전된 픽셀이 터져 흩어진다. 4K 저장.",
     tags: ["WebGL2", "3D 레이마칭", "음악 동기"], needsAudio: true },
   { id: "dreammetric", title: "DREAMMETRIC", ko: "드림메트릭", page: "/dreammetric_gl.html", kit: true, thumb: "/thumbs/dreammetric.jpg", dur: "0:34",
     desc: "꿈속에서 넘어가는 네 장의 슬라이드 — 거리를 재는 계측기, 의미가 되려다 마는 문양, 알 수 없는 말을 쏟아내는 눈, 부서져 날아가는 결정. 그리고 NO SIGNAL.",

diff --git a/tools/make_pixelation2_audio.py b/tools/make_pixelation2_audio.py
@@ -1,6 +1,6 @@
 # -*- coding: utf-8 -*-
 """pixelation2_cut.mp3 + pixelation2_data.js 생성 (음원은 로컬 전용 — 저장소에 올리지 않음)
-원곡(Censored) 앞 28.34초(마디 23 첫 박) → 테이프 스톱 0.55초 → 29.5 끝. 195 BPM, 박 0.30769s, 첫 박 0.034s
+원곡(Censored) 앞 28.34초(마디 23 첫 박, 화면이 터지는 순간) → 그 박의 원곡 타격만 1.1초 동안 빠르게 사라짐(합성 효과음 없음) → 29.5 끝. 195 BPM, 박 0.30769s, 첫 박 0.034s
 분석값: 킥 펄스 · 고역 펄스 · 음량 · 24대역 스펙트럼(36진수 한 글자씩, 오디오 비주얼라이저용)"""
 import subprocess, json, os, sys
 import numpy as np
@@ -9,7 +9,7 @@ from scipy.signal import stft
 HERE = os.path.dirname(os.path.abspath(__file__))
 SRC = os.path.join(HERE, "src_media", "Censored.mp3.mpeg")
 PUB = os.path.join(os.path.dirname(HERE), "public") + os.sep
-SR, CUT, TAIL, END = 44100, .034 + 23 * 1.23077, .55, 29.5
+SR, CUT, TAIL, END = 44100, .034 + 23 * 1.23077, 1.1, 29.5
 if not os.path.exists(SRC):
     sys.exit("원본 음원이 없습니다: " + SRC)
 raw = subprocess.run(["ffmpeg", "-v", "error", "-i", SRC, "-t", "31", "-ac", "2", "-ar", str(SR), "-f", "f32le", "-"], capture_output=True).stdout
@@ -17,8 +17,7 @@ x = np.frombuffer(raw, dtype=np.float32).reshape(-1, 2).astype(np.float64)
 assert len(x) > SR * 30, "원본에서 소리를 읽지 못했습니다"
 N = int(END * SR); y = np.zeros((N, 2)); n0 = int(CUT * SR)
 y[:n0] = x[:n0]; y[:int(.05 * SR)] *= np.linspace(0, 1, int(.05 * SR))[:, None]
-m = int(TAIL * SR); u = np.arange(m) / m; pos = n0 + np.cumsum((1 - u) ** 1.7); i0 = np.floor(pos).astype(int); fr = (pos - i0)[:, None]
-y[n0:n0 + m] = (x[i0] * (1 - fr) + x[i0 + 1] * fr) * ((1 - u) ** .7)[:, None]                 # 테이프 스톱
+m = int(TAIL * SR); u = np.arange(m) / m; y[n0:n0 + m] = x[n0:n0 + m] * (np.exp(-u * 4.5) * (1 - u))[:, None]            # 터지는 박의 원곡 타격만 남기고 사라짐
 y = np.clip(y, -1, 1).astype(np.float32)
 p = subprocess.run(["ffmpeg", "-v", "error", "-y", "-f", "f32le", "-ar", str(SR), "-ac", "2", "-i", "-", "-c:a", "libmp3lame", "-b:a", "192k", PUB + "pixelation2_cut.mp3"], input=y.tobytes())
 print("mp3", p.returncode, round(len(y) / SR, 3))
